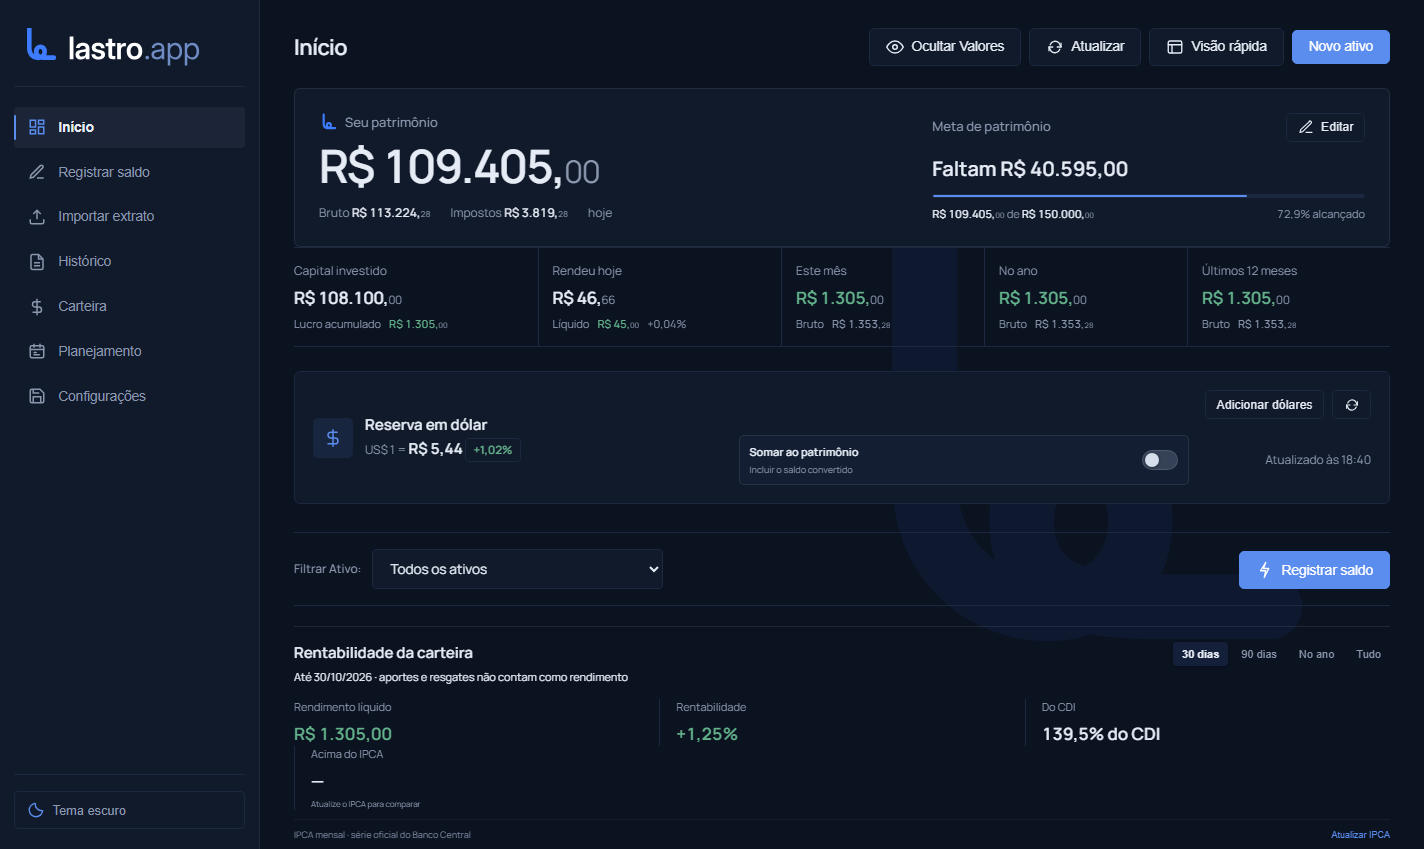
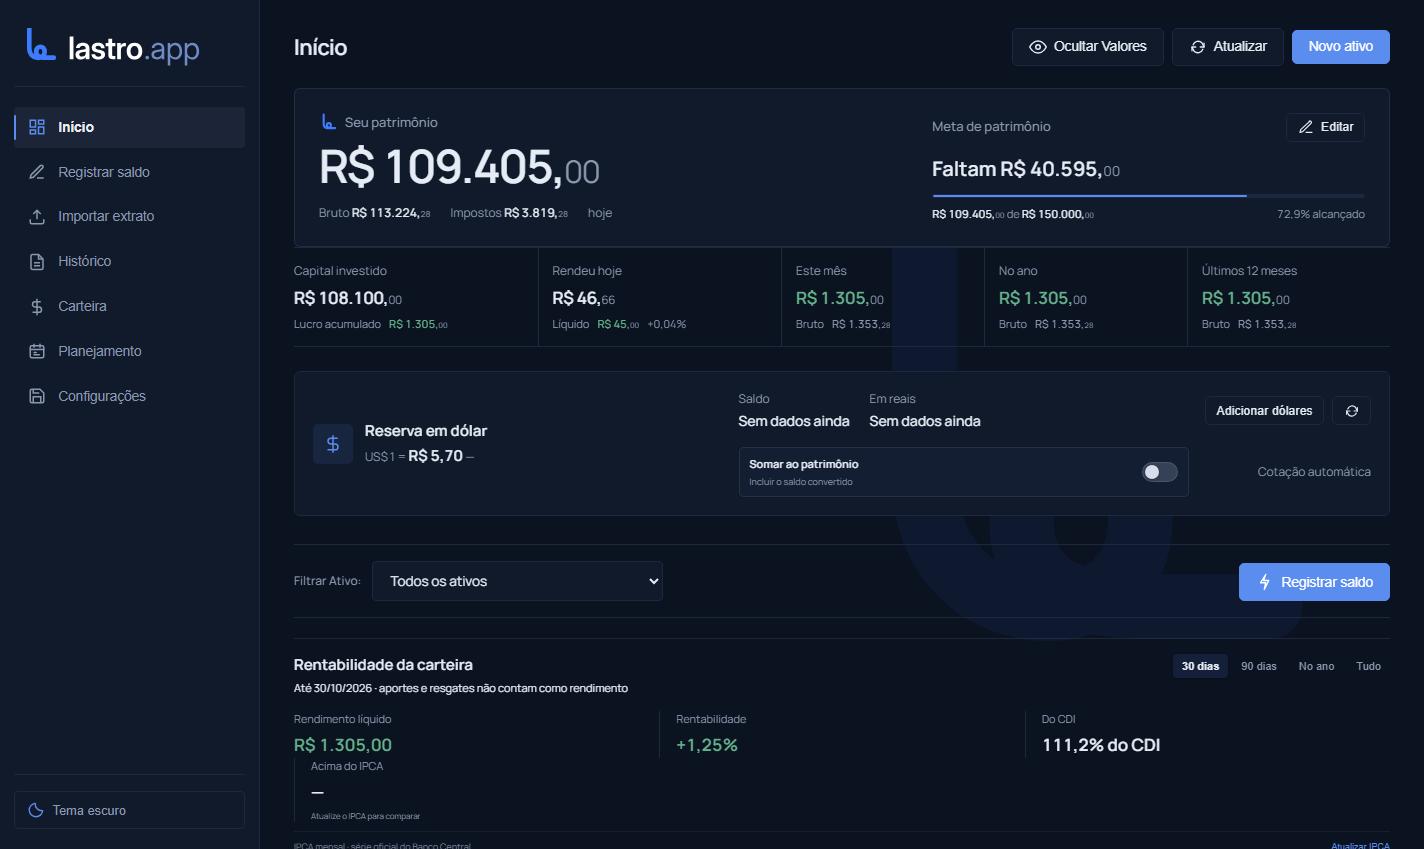
Prepare Lastro.app 1.0.3 for release

diff --git a/server.js b/server.js
@@ -9,10 +9,51 @@ const __dirname = path.dirname(__filename);
 
 const PORT = process.env.PORT || 3000;
 const DB_PATH = process.env.LASTRO_DB_PATH || path.join(__dirname, 'data', 'rendimentos.db');
+const DEFAULT_ANNUAL_CDI_RATE = 13.65;
+const DEFAULT_CDI_RATE_DATE = '2026-10-29';
+const CDI_SGS_URL = 'https://api.bcb.gov.br/dados/serie/bcdata.sgs.4389/dados/ultimos/1?formato=json';
+const CDI_REFRESH_INTERVAL_MS = 6 * 60 * 60 * 1000;
 fs.mkdirSync(path.dirname(DB_PATH), { recursive: true });
 
 const db = new DatabaseSync(DB_PATH);
 let externalFetch = globalThis.fetch;
+let cdiLastCheckedAt = 0;
+let cdiRefreshPromise = null;
+
+async function refreshAnnualCdiRate() {
+  if (cdiRefreshPromise) return cdiRefreshPromise.catch(() => {});
+  if (Date.now() - cdiLastCheckedAt < CDI_REFRESH_INTERVAL_MS) return;
+  cdiLastCheckedAt = Date.now();
+
+  cdiRefreshPromise = (async () => {
+    const response = await externalFetch(CDI_SGS_URL, {
+      headers: { Accept: 'application/json' },
+      signal: AbortSignal.timeout(6000)
+    });
+    if (!response.ok) throw new Error(`Banco Central respondeu ${response.status} ao consultar o CDI.`);
+
+    const rows = await response.json();
+    const latest = Array.isArray(rows) ? rows.at(-1) : null;
+    const value = Number(String(latest?.valor ?? '').replace(',', '.'));
+    const match = String(latest?.data ?? '').match(/^(\d{2})\/(\d{2})\/(\d{4})$/);
+    if (!Number.isFinite(value) || value <= 0 || !match) throw new Error('Resposta inválida da série CDI 4389.');
+
+    const [, day, month, year] = match;
+    const referenceDate = `${year}-${month}-${day}`;
+    if (!isValidIsoDate(referenceDate)) throw new Error('Data inválida na série CDI 4389.');
+
+    setSetting('annual_cdi_rate', value.toFixed(2));
+    setSetting('annual_cdi_rate_date', referenceDate);
+  })();
+
+  try {
+    await cdiRefreshPromise;
+  } catch {
+    // Keep the last stored reference if the user is offline or the BCB API is unavailable.
+  } finally {
+    cdiRefreshPromise = null;
+  }
+}
 
 // Initial tables
 db.exec(`
@@ -157,7 +198,10 @@ if (!getSetting('patrimony_goal', null)) {
   setSetting('patrimony_goal', '100000');
 }
 if (!getSetting('annual_cdi_rate', null)) {
-  setSetting('annual_cdi_rate', '10.75'); // Taxa CDI padrão atual
+  setSetting('annual_cdi_rate', DEFAULT_ANNUAL_CDI_RATE);
+}
+if (!getSetting('annual_cdi_rate_date', null)) {
+  setSetting('annual_cdi_rate_date', DEFAULT_CDI_RATE_DATE);
 }
 if (!getSetting('usd_amount', null)) {
   setSetting('usd_amount', '0');
@@ -225,7 +269,7 @@ function countBusinessDays(startDateStr, endDateStr) {
 
 // Calculate Analytics
 function calculateAnalytics(investmentId = null) {
-  const annualCDI = parseFloat(getSetting('annual_cdi_rate', '10.75')) || 10.75;
+  const annualCDI = parseFloat(getSetting('annual_cdi_rate', String(DEFAULT_ANNUAL_CDI_RATE))) || DEFAULT_ANNUAL_CDI_RATE;
   const patrimonyGoal = parseFloat(getSetting('patrimony_goal', '100000')) || 100000;
   
   // Daily CDI rate: (1 + CDI)^(1/252) - 1
@@ -563,6 +607,7 @@ function calculateAnalytics(investmentId = null) {
 
       // Benchmark CDI
       annual_cdi_rate: annualCDI,
+      annual_cdi_rate_date: getSetting('annual_cdi_rate_date', DEFAULT_CDI_RATE_DATE),
 
       // Dólar
       usd_amount: parseFloat(getSetting('usd_amount', '0')) || 0,
@@ -612,7 +657,6 @@ const server = http.createServer(async (req, res) => {
       if (method === 'POST') {
         const data = await parseJsonBody(req);
         if (data.patrimony_goal !== undefined) { setSetting('patrimony_goal', data.patrimony_goal); logActivity('settings', null, 'updated', 'Meta de patrimônio'); }
-        if (data.annual_cdi_rate !== undefined) { setSetting('annual_cdi_rate', data.annual_cdi_rate); logActivity('settings', null, 'updated', 'Taxa CDI de referência'); }
         if (data.usd_amount !== undefined) { setSetting('usd_amount', data.usd_amount); logActivity('settings', null, 'updated', 'Reserva em dólar'); }
         if (data.include_usd_in_patrimony !== undefined) { setSetting('include_usd_in_patrimony', String(data.include_usd_in_patrimony)); logActivity('settings', null, 'updated', 'Inclusão da reserva em dólar'); }
         if (data.user_name !== undefined) { setSetting('user_name', String(data.user_name).trim().slice(0, 40)); logActivity('profile', null, 'updated', 'Saudação personalizada'); }
@@ -1040,6 +1084,7 @@ const server = http.createServer(async (req, res) => {
 
     // API: Analytics
     if (pathname === '/api/analytics' && method === 'GET') {
+      await refreshAnnualCdiRate();
       const invId = parsedUrl.searchParams.get('investment_id');
       const analytics = calculateAnalytics(invId ? parseInt(invId, 10) : null);
       return sendJson(res, 200, analytics);
@@ -1195,7 +1240,6 @@ const server = http.createServer(async (req, res) => {
       if (Array.isArray(data.settings)) {
         const allowedSettings = new Set([
           'patrimony_goal',
-          'annual_cdi_rate',
           'usd_amount',
           'include_usd_in_patrimony',
           'user_name'

diff --git a/public/app.js b/public/app.js
@@ -517,9 +517,11 @@ async function loadDashboardData() {
     // Taxa CDI
     const cdiRateEl = document.getElementById('cdiRateBadge');
     if (cdiRateEl) {
-      const cdiVal = parseFloat(s.annual_cdi_rate) || 10.75;
+      const cdiVal = parseFloat(s.annual_cdi_rate) || 13.65;
       cdiRateEl.textContent = `${cdiVal.toFixed(2).replace('.', ',')}% a.a.`;
     }
+    const cdiUpdatedEl = document.getElementById('cdiRateUpdatedAt');
+    if (cdiUpdatedEl) cdiUpdatedEl.textContent = s.annual_cdi_rate_date ? ` · Banco Central, ${formatDateBR(s.annual_cdi_rate_date)}` : ' · aguardando atualização';
 
     const dateEl = document.getElementById('kpiLatestDate');
     if (dateEl) {
@@ -691,7 +693,7 @@ function updatePeriodPerformance(analytics = state.analytics) {
 
   const returnPct = weightedCapital > 0 ? (periodYield / weightedCapital) * 100 : 0;
   const summary = analytics?.summary || {};
-  const cdiRate = Number(summary.annual_cdi_rate) || 10.75;
+  const cdiRate = Number(summary.annual_cdi_rate) || 13.65;
   const businessDays = businessDaysBetween(startDate, end);
   const benchmarkPct = (Math.pow(1 + cdiRate / 100, 1 / 252) ** businessDays - 1) * 100;
   const cdiDelivery = benchmarkPct > 0 ? (returnPct / benchmarkPct) * 100 : null;
@@ -2387,7 +2389,7 @@ async function handleSingleEntrySubmit(e) {
 // Settings Modal
 async function openSettingsModal() {
   let goal = 100000;
-  let cdi = 10.75;
+  let cdi = 13.65;
 
   if (state.analytics && state.analytics.summary) {
     goal = state.analytics.summary.patrimony_goal || goal;
@@ -2396,6 +2398,7 @@ async function openSettingsModal() {
 
   const goalInput = document.getElementById('settingPatrimonyGoal');
   const cdiInput = document.getElementById('settingCdiRate');
+  const cdiDate = document.getElementById('settingCdiRateUpdatedAt');
   if (goalInput) goalInput.value = goal;
   if (cdiInput) cdiInput.value = cdi;
 
@@ -2407,6 +2410,9 @@ async function openSettingsModal() {
     const settings = await res.json();
     if (settings.patrimony_goal && goalInput) goalInput.value = settings.patrimony_goal;
     if (settings.annual_cdi_rate && cdiInput) cdiInput.value = settings.annual_cdi_rate;
+    if (cdiDate) cdiDate.textContent = settings.annual_cdi_rate_date
+      ? `Atualizada pelo Banco Central em ${formatDateBR(settings.annual_cdi_rate_date)}. Se estiver sem internet, o último valor salvo continua sendo usado.`
+      : 'Aguardando a primeira atualização pelo Banco Central. Se estiver sem internet, o último valor salvo continua sendo usado.';
   } catch (err) {}
 }
 
@@ -2417,13 +2423,11 @@ function closeSettingsModal() {
 async function handleSettingsSubmit(e) {
   e.preventDefault();
   const patrimony_goal = parseFloat(document.getElementById('settingPatrimonyGoal').value);
-  const annual_cdi_rate = parseFloat(document.getElementById('settingCdiRate').value);
-
   try {
     const res = await fetch('/api/settings', {
       method: 'POST',
       headers: { 'Content-Type': 'application/json' },
-      body: JSON.stringify({ patrimony_goal, annual_cdi_rate })
+      body: JSON.stringify({ patrimony_goal })
     });
     const result = await res.json();
     if (result.success) {
@@ -2835,10 +2839,6 @@ document.addEventListener('DOMContentLoaded', () => {
     const purge = event.target.closest('[data-purge-item]');
     if (restore) restoreDeletedItem(restore.dataset.restoreItem);
     if (purge) permanentlyDeleteItem(purge.dataset.purgeItem);
-  });
-  document.getElementById('btnOpenCompactView').addEventListener('click', () => {
-    if (window.lastroDesktop?.openCompactWindow) window.lastroDesktop.openCompactWindow();
-    else window.open('/compact.html', 'lastro-compact', 'popup,width=420,height=620,resizable=yes');
   });
 
   document.addEventListener('keydown', (event) => {

diff --git a/desktop/main.js b/desktop/main.js
@@ -1,9 +1,8 @@
-import { app, BrowserWindow, ipcMain, net, shell } from 'electron';
+import { app, BrowserWindow, net, shell } from 'electron';
 import fs from 'node:fs';
 import path from 'node:path';
 
 let mainWindow;
-let compactWindow;
 let localServer;
 let localUrl;
 
@@ -30,21 +29,6 @@ if (!app.requestSingleInstanceLock()) {
       const started = await startServer(0, '127.0.0.1', { fetch: net.fetch.bind(net) });
       localServer = started.server;
       localUrl = started.url;
-      ipcMain.handle('lastro:open-compact', () => openCompactWindow());
-      ipcMain.handle('lastro:open-main', () => {
-        if (!mainWindow || mainWindow.isDestroyed()) {
-          createWindow();
-          return true;
-        }
-        if (mainWindow.isMinimized()) mainWindow.restore();
-        mainWindow.show();
-        mainWindow.focus();
-        return true;
-      });
-      ipcMain.handle('lastro:close-compact', event => {
-        const owner = BrowserWindow.fromWebContents(event.sender);
-        if (owner === compactWindow) owner.close();
-      });
       createWindow();
     } catch (error) {
       console.error('Não foi possível iniciar o Lastro.app:', error);
@@ -70,7 +54,6 @@ function createWindow() {
     title: 'Lastro.app',
     icon: path.join(app.getAppPath(), 'public', 'favicon.ico'),
     webPreferences: {
-      preload: path.join(app.getAppPath(), 'desktop', 'preload.cjs'),
       contextIsolation: true,
       nodeIntegration: false,
       sandbox: true
@@ -90,36 +73,4 @@ function createWindow() {
   });
   mainWindow.on('closed', () => { mainWindow = null; });
   mainWindow.loadURL(localUrl);
-}
-
-function openCompactWindow() {
-  if (compactWindow && !compactWindow.isDestroyed()) {
-    if (compactWindow.isMinimized()) compactWindow.restore();
-    compactWindow.show();
-    compactWindow.focus();
-    return true;
-  }
-  compactWindow = new BrowserWindow({
-    width: 420,
-    height: 620,
-    minWidth: 360,
-    minHeight: 480,
-    show: false,
-    alwaysOnTop: true,
-    autoHideMenuBar: true,
-    backgroundColor: '#0B1220',
-    title: 'Lastro · Visão rápida',
-    icon: path.join(app.getAppPath(), 'public', 'favicon.ico'),
-    webPreferences: {
-      preload: path.join(app.getAppPath(), 'desktop', 'preload.cjs'),
-      contextIsolation: true,
-      nodeIntegration: false,
-      sandbox: true
-    }
-  });
-  compactWindow.once('ready-to-show', () => compactWindow?.show());
-  compactWindow.webContents.setWindowOpenHandler(() => ({ action: 'deny' }));
-  compactWindow.on('closed', () => { compactWindow = null; });
-  compactWindow.loadURL(new URL('/compact.html', localUrl).href);
-  return true;
 }

diff --git a/public/index.html b/public/index.html
@@ -74,9 +74,6 @@
             Atualizar
           </button>
 
-          <button class="btn btn-secondary compact-view-button" id="btnOpenCompactView" title="Abrir painel compacto" aria-label="Abrir painel compacto">
-            <svg viewBox="0 0 24 24" width="18" height="18" stroke="currentColor" stroke-width="1.8" fill="none" stroke-linecap="round" stroke-linejoin="round" aria-hidden="true"><rect x="3" y="4" width="18" height="16" rx="2"></rect><path d="M3 9h18M8 9v11"></path></svg><span>Visão rápida</span>
-          </button>
           
           <button class="btn btn-primary" id="btnOpenNewInvestment" title="Novo ativo (N)">Novo ativo</button>
         </div>
@@ -313,7 +310,7 @@
               
             </div>
             <div style="font-size: 0.8rem; color: var(--text-muted);">
-              Taxa CDI de referência: <strong id="cdiRateBadge">10.75% a.a.</strong>
+              CDI anualizado: <strong id="cdiRateBadge">Carregando...</strong><small id="cdiRateUpdatedAt"></small>
             </div>
           </div>
           <div class="table-responsive">
@@ -754,8 +751,8 @@
         </div>
         <div class="form-group">
           <label for="settingCdiRate">Taxa CDI de Referência Anual (% a.a.)</label>
-          <input type="number" step="0.01" id="settingCdiRate" class="form-control" placeholder="10.75" required />
-          <small class="form-help">Utilizada para calcular se seus CDBs/LCIs estão entregando o CDI contratado</small>
+          <input type="number" step="0.01" id="settingCdiRate" class="form-control" readonly aria-readonly="true" />
+          <small id="settingCdiRateUpdatedAt" class="form-help">Atualizada automaticamente pelo Banco Central (SGS 4389). Requer internet; sem conexão, usa o último valor salvo.</small>
         </div>
         <div class="modal-actions">
           <button type="button" class="btn btn-secondary" onclick="closeSettingsModal()">Cancelar</button>

diff --git a/public/styles.css b/public/styles.css
@@ -1901,7 +1901,6 @@ button:not(:disabled):active { transform: translateY(0) scale(.97); transition-d
 .text-danger { color: #d98b8b !important; }
 .activity-row { justify-content: start; }
 .activity-dot { width: 6px; height: 6px; flex: 0 0 6px; border-radius: 50%; background: #6f91d4; }
-.compact-view-button { display: inline-flex; align-items: center; gap: 7px; }
 @keyframes feature-row-in { from { opacity: 0; transform: translateY(4px); } to { opacity: 1; transform: translateY(0); } }
 @media (max-width: 1050px) {
   .dashboard-followups { grid-template-columns: minmax(0,1fr); }
@@ -1925,7 +1924,6 @@ button:not(:disabled):active { transform: translateY(0) scale(.97); transition-d
   .movement-form > .btn { grid-column: 1 / -1; justify-self: start; }
   .recovery-row { align-items: flex-start; flex-direction: column; }
   .recovery-actions { align-self: end; }
-  .compact-view-button span { display: none; }
 }
 @media (prefers-reduced-motion: reduce) {
   .calendar-event, .calendar-event-form, .calendar-receipt-form, .scenario-result, .recovery-row, .activity-row { animation-duration: .01ms; }

diff --git a/public/sw.js b/public/sw.js
@@ -1,8 +1,7 @@
-const CACHE_NAME = 'lastro-app-v5';
+const CACHE_NAME = 'lastro-app-v6';
 const APP_SHELL = [
   '/',
   '/index.html',
-  '/compact.html',
   '/styles.css',
   '/app.js',
   '/manifest.json',

diff --git a/README.md b/README.md
@@ -18,7 +18,7 @@ As capturas abaixo usam dados fictícios de demonstração.
 
 ## Baixar para Windows
 
-Baixe **Lastro.app Setup 1.0.2.exe** na seção **Releases**, execute o instalador e escolha a pasta de instalação. Ele cria atalhos no Menu Iniciar e na Área de Trabalho.
+Baixe **Lastro.app Setup 1.0.3.exe** na seção **Releases**, execute o instalador e escolha a pasta de instalação. Ele cria atalhos no Menu Iniciar e na Área de Trabalho.
 
 O instalador abre uma janela desktop do Lastro.app; o usuário não precisa abrir Chrome ou outro navegador. O servidor local só atende o próprio aplicativo e é encerrado quando a janela é fechada.
 
@@ -34,8 +34,10 @@ Os dados de demonstração exibidos nas imagens deste README são fictícios e n
 - Visão da carteira por instituição, tipo de ativo e liquidez, com alertas de vencimento e saldos desatualizados.
 - Planejamento de juros e dividendos e simulação com taxas e contribuições informadas pelo usuário.
 - Backup e restauração de saldos, movimentações, ativos, agenda e série de IPCA guardada localmente.
-- Visão rápida em janela compacta, sempre acessível no app Windows.
+- Atualização automática da taxa CDI anualizada pelo Banco Central (série SGS 4389), com data de referência visível e uso do último valor salvo quando estiver sem internet.
 - Atualização do IPCA sob demanda, com conexão à internet. Como o IPCA é mensal, o retorno real usa uma estimativa proporcional aos dias do período.
+
+A taxa de referência vem da [série SGS 4389 do Banco Central](https://api.bcb.gov.br/dados/serie/bcdata.sgs.4389/dados/ultimos/1?formato=json), anualizada em base de 252 dias úteis. O app atualiza o valor ao consultar o painel, no máximo uma vez a cada seis horas, e guarda a última taxa e sua data no banco local.
 
 As projeções dependem dos valores informados e não representam promessa de rentabilidade.
 
@@ -63,7 +65,9 @@ npm install
 npm run dist
 ```
 
-O instalador NSIS é gerado em `dist/`. Para publicar a versão 1.0.2, crie a tag `v1.0.2` no GitHub e anexe `dist/Lastro.app Setup 1.0.2.exe` à **GitHub Release**. Não adicione o instalador ao histórico Git, pois ele tem mais de 100 MB. O código-fonte e o `package-lock.json` permitem reproduzir a build.
+O instalador NSIS é gerado em `dist/`. Para publicar a versão 1.0.3, crie a tag `v1.0.3` no GitHub e anexe `dist/Lastro.app Setup 1.0.3.exe` à **GitHub Release**. Não adicione o instalador ao histórico Git; publique-o como anexo da Release. O código-fonte e o `package-lock.json` permitem reproduzir a build.
+
+O instalador desta versão não tem assinatura digital. Por isso, o Windows ou um antivírus pode exibir um aviso de reputação ou uma detecção heurística. O aplicativo desktop não inicia PowerShell nem CMD. Caso um antivírus sinalize o instalador, envie o arquivo ao fornecedor para análise; não há como garantir que todo antivírus classifique um executável sem assinatura da mesma forma.
 
 ## Capturas do README
 
